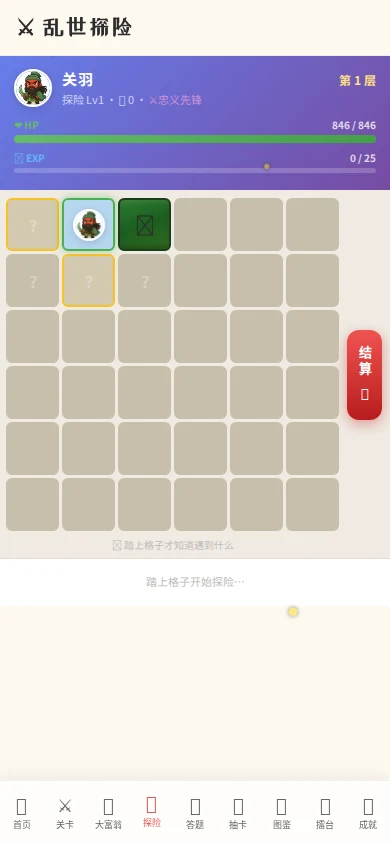
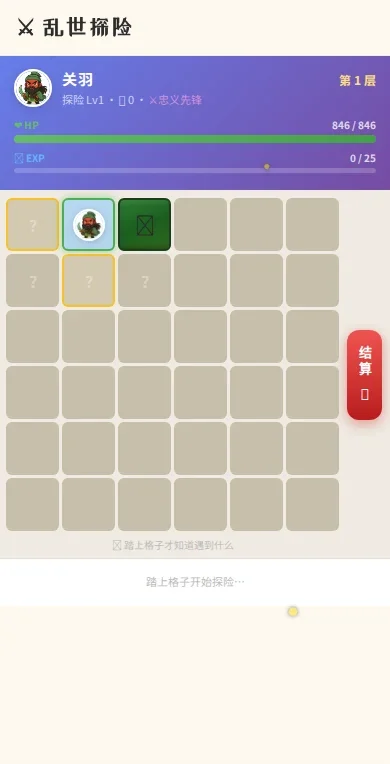
fix: S7裁掉tab bar空图标，优化截图排版

diff --git a/index.html b/index.html
@@ -496,23 +496,27 @@ body{height:100%;font-family:'Noto Sans SC',sans-serif;overflow-x:hidden;backgro
     </div>
   </div>
 
-  <div class="half-r" style="z-index:2;flex-direction:row;gap:12px;align-items:center;justify-content:center;padding-right:clamp(24px,4vw,48px)">
+  <div class="half-r" style="z-index:2;flex-direction:row;gap:clamp(12px,2vw,24px);align-items:center;justify-content:center;padding-right:clamp(24px,4vw,48px)">
 
     <!-- 大富翁截图 -->
-    <div class="a d3" style="--an:sr;flex:1;display:flex;flex-direction:column;align-items:center">
-      <div style="font-size:10px;color:var(--muted);margin-bottom:7px;letter-spacing:1px">三国大富翁</div>
-      <div style="border-radius:14px;overflow:hidden;border:1px solid rgba(239,83,80,.35);box-shadow:0 8px 32px rgba(0,0,0,.6);position:relative;max-width:200px;width:100%">
-        <img src="monopoly_ui.webp" alt="三国大富翁游戏界面"
-          style="width:100%;display:block;border-radius:14px">
+    <div class="a d3" style="--an:sl;display:flex;flex-direction:column;align-items:center;gap:10px">
+      <div style="display:flex;align-items:center;gap:6px;padding:5px 12px;border-radius:20px;background:rgba(239,83,80,.15);border:1px solid rgba(239,83,80,.4)">
+        <span style="font-size:11px">🎲</span>
+        <span style="font-size:11px;color:#ffb0a8;font-weight:600;letter-spacing:.5px">三国大富翁</span>
+      </div>
+      <div style="border-radius:20px;overflow:hidden;border:1.5px solid rgba(239,83,80,.5);box-shadow:0 16px 48px rgba(0,0,0,.7),0 0 0 1px rgba(255,255,255,.05);width:clamp(150px,17vw,220px)">
+        <img src="monopoly_ui.webp" alt="三国大富翁游戏界面" style="width:100%;display:block">
       </div>
     </div>
 
     <!-- 探险截图 -->
-    <div class="a d4" style="--an:sr;flex:1;display:flex;flex-direction:column;align-items:center">
-      <div style="font-size:10px;color:var(--muted);margin-bottom:7px;letter-spacing:1px">乱世探险</div>
-      <div style="border-radius:14px;overflow:hidden;border:1px solid rgba(124,77,255,.35);box-shadow:0 8px 32px rgba(0,0,0,.6);position:relative;max-width:200px;width:100%">
-        <img src="dungeon_ui.webp" alt="乱世探险游戏界面"
-          style="width:100%;display:block;border-radius:14px">
+    <div class="a d4" style="--an:sr;display:flex;flex-direction:column;align-items:center;gap:10px">
+      <div style="display:flex;align-items:center;gap:6px;padding:5px 12px;border-radius:20px;background:rgba(124,77,255,.15);border:1px solid rgba(124,77,255,.4)">
+        <span style="font-size:11px">⚔</span>
+        <span style="font-size:11px;color:#c4a8ff;font-weight:600;letter-spacing:.5px">乱世探险</span>
+      </div>
+      <div style="border-radius:20px;overflow:hidden;border:1.5px solid rgba(124,77,255,.5);box-shadow:0 16px 48px rgba(0,0,0,.7),0 0 0 1px rgba(255,255,255,.05);width:clamp(150px,17vw,220px)">
+        <img src="dungeon_ui.webp" alt="乱世探险游戏界面" style="width:100%;display:block">
       </div>
     </div>
 
